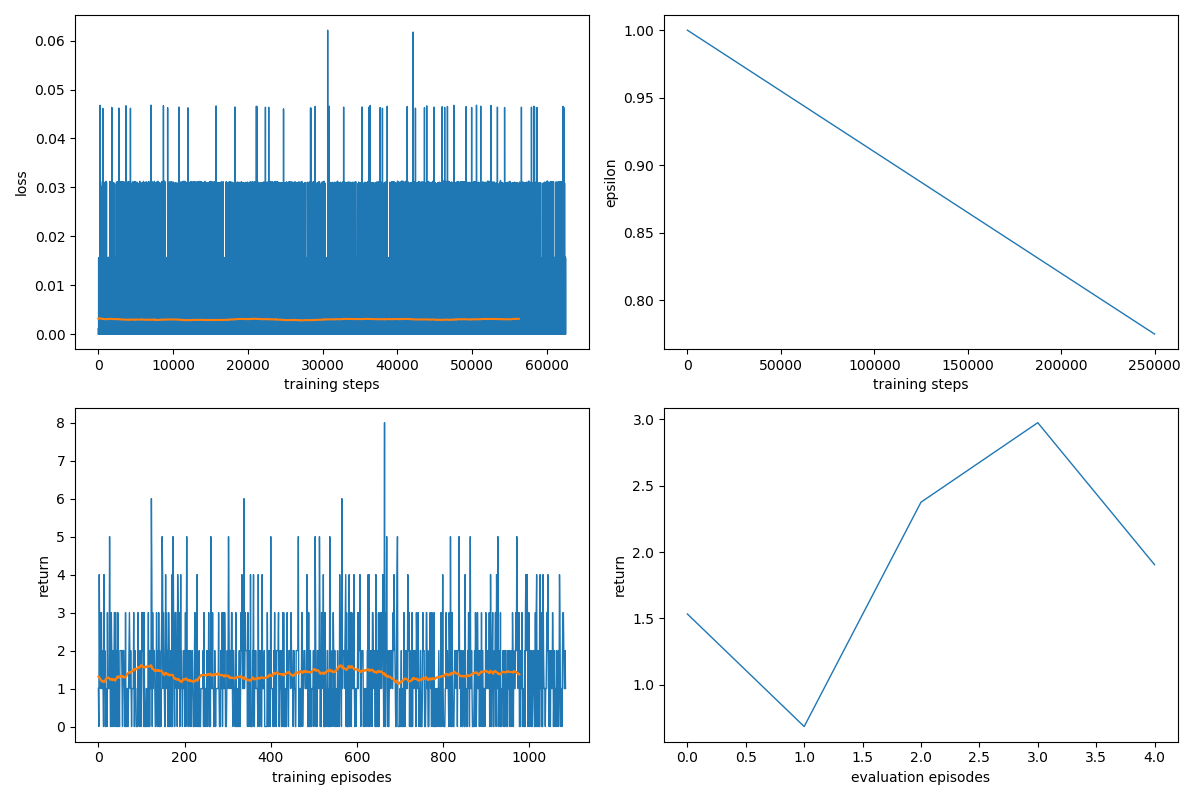
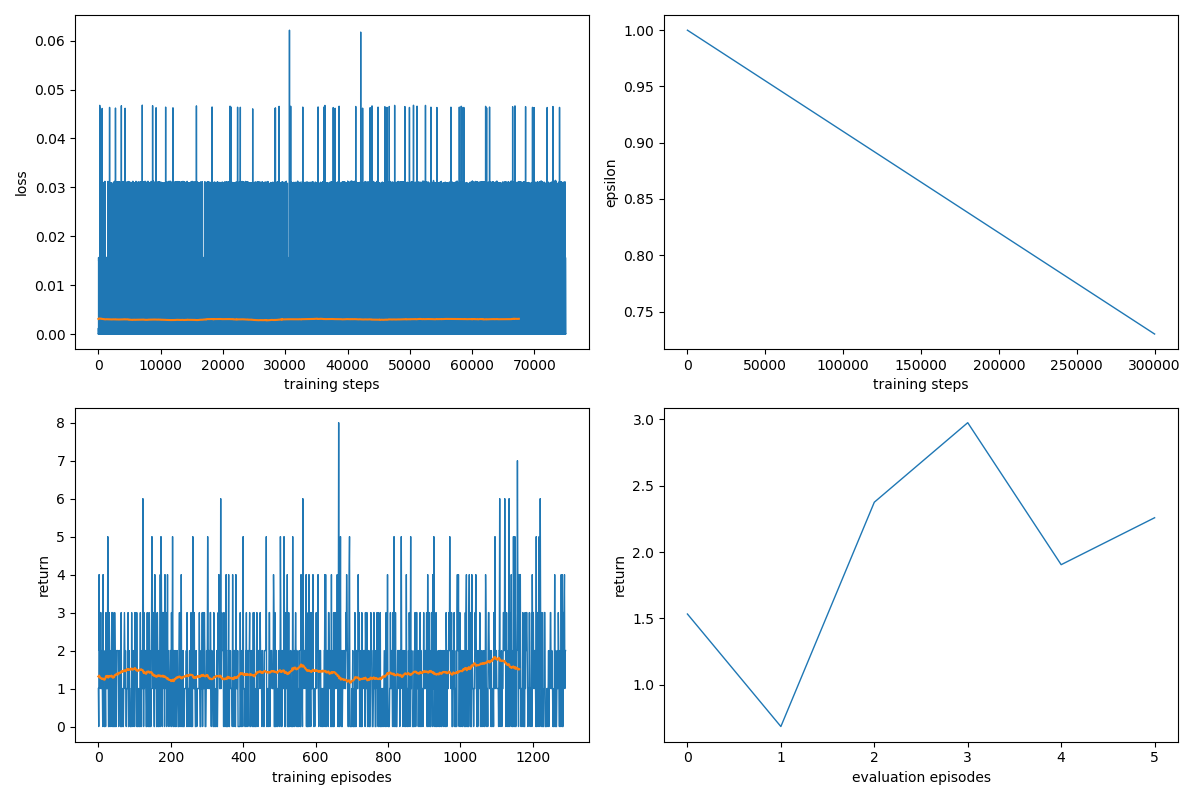
- new (intermediate) results - reduced hidden_size (256 -> 128) --> run at dbs cluster

diff --git a/utils/plots.py b/utils/plots.py
@@ -7,20 +7,15 @@ import numpy as np
 def plot_intermediate_results(directory, **data):
     fig, axarr = plt.subplots(2, 2, figsize=(12, 8))
     axarr[0, 0].plot(data['loss'], linewidth=1)
-    # axarr[0, 0].plot(sliding_window(data['loss'], window_size=int(len(data['loss'])/10)), linewidth=1.5)
     axarr[0, 0].set(xlabel='training steps', ylabel='loss')
 
     axarr[0, 1].plot(data['epsilons'], linewidth=1)
     axarr[0, 1].set(xlabel='training steps', ylabel='epsilon')
 
     axarr[1, 0].plot(data['training_returns'], linewidth=1)
-    # axarr[1, 0].plot(sliding_window(data['training_returns'], window_size=int(len(data['training_returns'])/10)), linewidth=1.5)
     axarr[1, 0].set(xlabel='training episodes', ylabel='return')
 
     axarr[1, 1].plot(data['evaluation_returns'], linewidth=1)
-    """if int(len(data['evaluation_returns'])/10) > 10:
-        window = int(len(data['evaluation_returns'])/10)
-        axarr[1, 1].plot(sliding_window(data['evaluation_returns'], window_size=window), linewidth=1.5)"""
     axarr[1, 1].set(xlabel='evaluation episodes', ylabel='return')
 
     plt.tight_layout()
